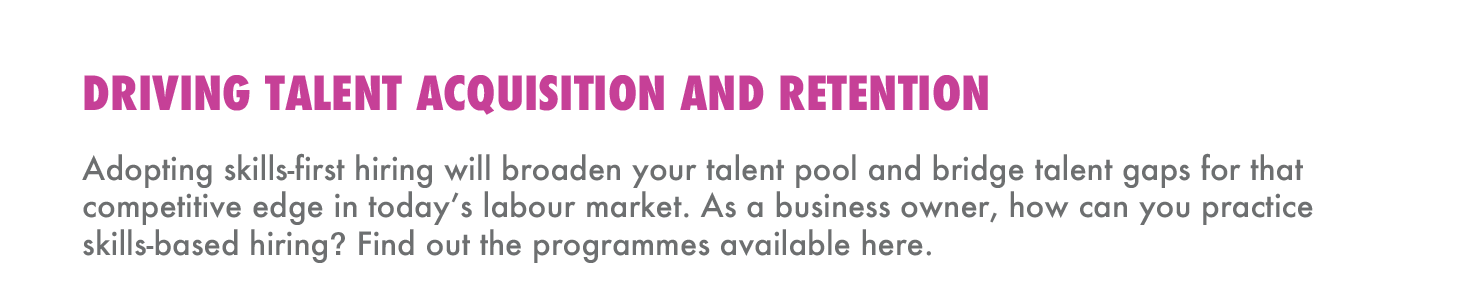
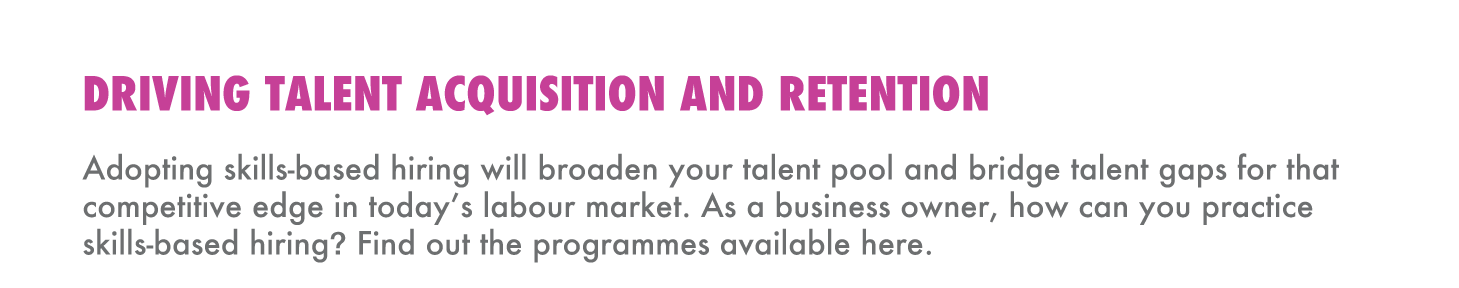
text changes

diff --git a/WSG/career-health-jan25/v2.html b/WSG/career-health-jan25/v2.html
@@ -215,7 +215,7 @@
                                                                             </td>
                                                                             <td style="vertical-align: top;">
                                                                                 <h3 style="margin: 0 0 8px 0; font-family: Tahoma, Arial, sans-serif; font-size: 15px; line-height: 1.3 !important; color: #C94895; text-decoration: underline;"><a target="_blank" href="https://go.gov.sg/emp-ch-edm-mcf" style="color: #C94895; text-decoration: underline; display: inline-block;">MyCareersFuture</a></h3>
-                                                                                <p style="margin: 0; font-family: Tahoma, Arial, sans-serif; color: #6D6F70; font-weight: 600; font-size: 10px; line-height: 1.3;">As an employer, you can streamline skills-first hiring through MyCareersFuture's Talent Search and Suggested Talent tools. You can identify and reach out to candidates with the relevant skill sets, who haven't applied directly to these jobs.</p>
+                                                                                <p style="margin: 0; font-family: Tahoma, Arial, sans-serif; color: #6D6F70; font-weight: 600; font-size: 10px; line-height: 1.3;">As an employer, you can streamline skills-based hiring through MyCareersFuture's Talent Search and Suggested Talent tools. You can identify and reach out to candidates with the relevant skill sets, who haven't applied directly to these jobs.</p>
                                                                             </td>
                                                                         </tr>
                                                                     </table>
